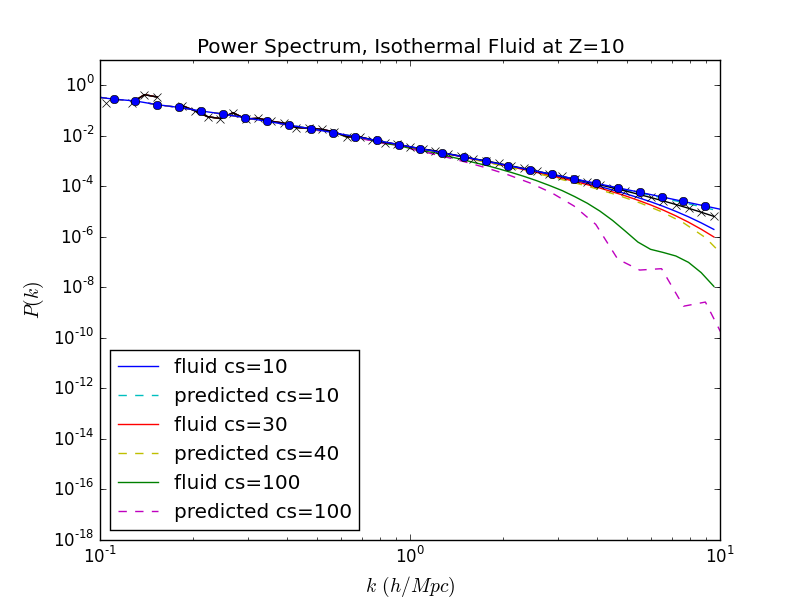
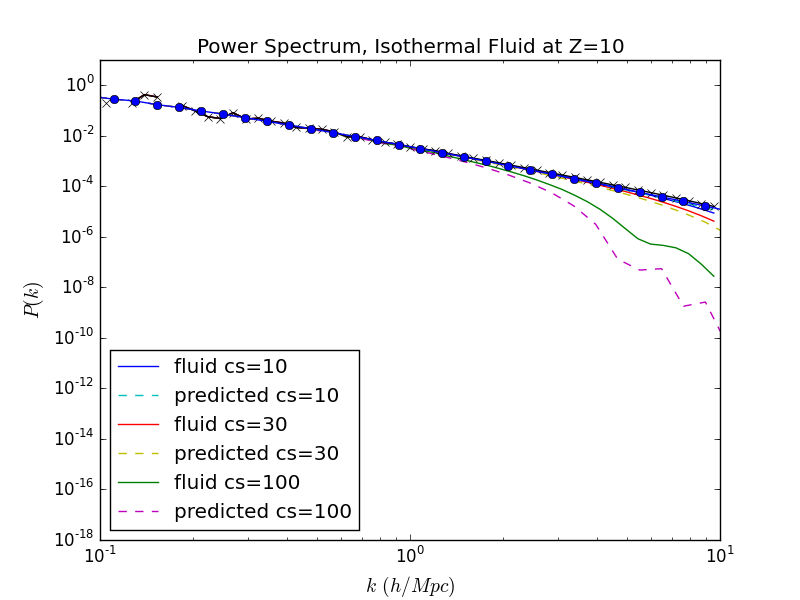
Added 1024 minpressure plots.

diff --git a/plots/isothermal/isothermal_fluid_all_z10.py b/plots/isothermal/isothermal_fluid_all_z10.py
@@ -12,23 +12,24 @@ testgrowthpattern = re.compile(r'testgrowthcs(\d+)')
 
 simtypes = ['fluid']
 for simtype in simtypes:
-    params = [simtype,'b100','n512','t0.005','h2','iso','z10_']
+    params = [simtype,'b100','n1024','t0.005','h2','iso','z10_']
     filenames = [filename for filename in results if all(param in filename for param in params)]
     for filename in filenames:
-        label = simtype
-        isothermal = isothermalpattern.findall(filename)[0]
-        if isothermal in ['10','30','100']:
-            label += ' cs='+isothermal
-            kvalues, ps = np.loadtxt(result_dir+filename, unpack=True)
-            style = '-'
-            plt.loglog(kvalues, ps, style, label=label)
+        if 'minpressure' not in filename:
+            label = simtype
+            isothermal = isothermalpattern.findall(filename)[0]
+            if isothermal in ['10','30','100']:
+                label += ' cs='+isothermal
+                kvalues, ps = np.loadtxt(result_dir+filename, unpack=True)
+                style = '-'
+                plt.loglog(kvalues, ps, style, label=label)
 
 
 
 filenames = [filename for filename in results if 'testgrowth' in filename]
 for filename in filenames:
     testgrowth = testgrowthpattern.findall(filename)[0]
-    if testgrowth in ['10','40','100']:
+    if testgrowth in ['10','30','100']:
         label = 'predicted cs='+testgrowth
         col1, kvalues, linearpower, col4, col5, sqrtsuppression = np.loadtxt(result_dir+filename, unpack=True)
         style = '--'
@@ -57,7 +58,7 @@ plt.xlabel('$k \, (h/Mpc)$', fontsize=14)
 plt.ylabel('$P(k)$', fontsize=14)
 plt.title('Power Spectrum, Isothermal Fluid at Z=10')
 plt.legend(handles2, labels2, numpoints=1, loc='best')
-particleresults = 'particle_b100_n512_t0.005_h2_z10.out'
+particleresults = 'particle_b100_n1024_t0.005_h2_z10.out'
 particlekvalues, particleps = np.loadtxt(result_dir+particleresults, unpack=True)
 col1, linearkvalues, linearpower, col4, col5, sqrtsuppression = np.loadtxt(result_dir+'testgrowthcs10.dat', unpack=True)
 plt.loglog(particlekvalues, particleps, '-x', label='particle')

diff --git a/plots/isothermal/isothermal_fluid_low_adiabatic_normalized_particle_z10.py b/plots/isothermal/isothermal_fluid_low_adiabatic_normalized_particle_z10.py
@@ -12,22 +12,22 @@ npattern = re.compile(r'_n(\d+)')
 
 simtypes = ['fluid']
 for simtype in simtypes:
-    params = [simtype,'b100','n512','t0.005','h2','iso','z10_']
+    params = [simtype,'b100','n1024','t0.005','h2','iso','z10_']
     filenames = [filename for filename in results if all(param in filename for param in params)]
-    filenames.append('fluid_b100_n512_t0.005_h2_z10.out')
-    base = 'particle_b100_n512_t0.005_h2_z10.out'
+    filenames.append('fluid_b100_n1024_t0.005_h2_z10.out')
+    base = 'particle_b100_n1024_t0.005_h2_z10.out'
     
     kvalues_base, ps_base = np.loadtxt(result_dir+base, unpack=True)
 
     for filename in filenames:
-        if 'iso' in filename:
+        if 'iso' in filename and 'minpressure' not in filename:
             isothermal = isothermalpattern.findall(filename)[0]
             if isothermal in ['10','30','100']:
                 n = npattern.findall(filename)[0]
                 kvalues, ps = np.loadtxt(result_dir+filename, unpack=True)
                 ps = (ps - ps_base)/ps_base
                 plt.semilogx(kvalues, ps, '-', label='Isothermal fluid cs='+isothermal)
-        elif filename is 'fluid_b100_n512_t0.005_h2_z10.out': 
+        elif filename is 'fluid_b100_n1024_t0.005_h2_z10.out': 
             kvalues, ps = np.loadtxt(result_dir+filename, unpack=True)
             ps = (ps - ps_base)/ps_base
             plt.semilogx(kvalues, ps, '--', label='Adiabatic fluid')
@@ -35,7 +35,7 @@ for simtype in simtypes:
 filenames = [filename for filename in results if 'testgrowth' in filename]
 for filename in filenames:
     testgrowth = testgrowthpattern.findall(filename)[0]
-    if testgrowth in ['10','40','100']:
+    if testgrowth in ['10','30','100']:
         label = 'predicted cs='+testgrowth
         col1, kvalues, linearpower, col4, col5, sqrtsuppression = np.loadtxt(result_dir+filename, unpack=True)
         style = '-x'
